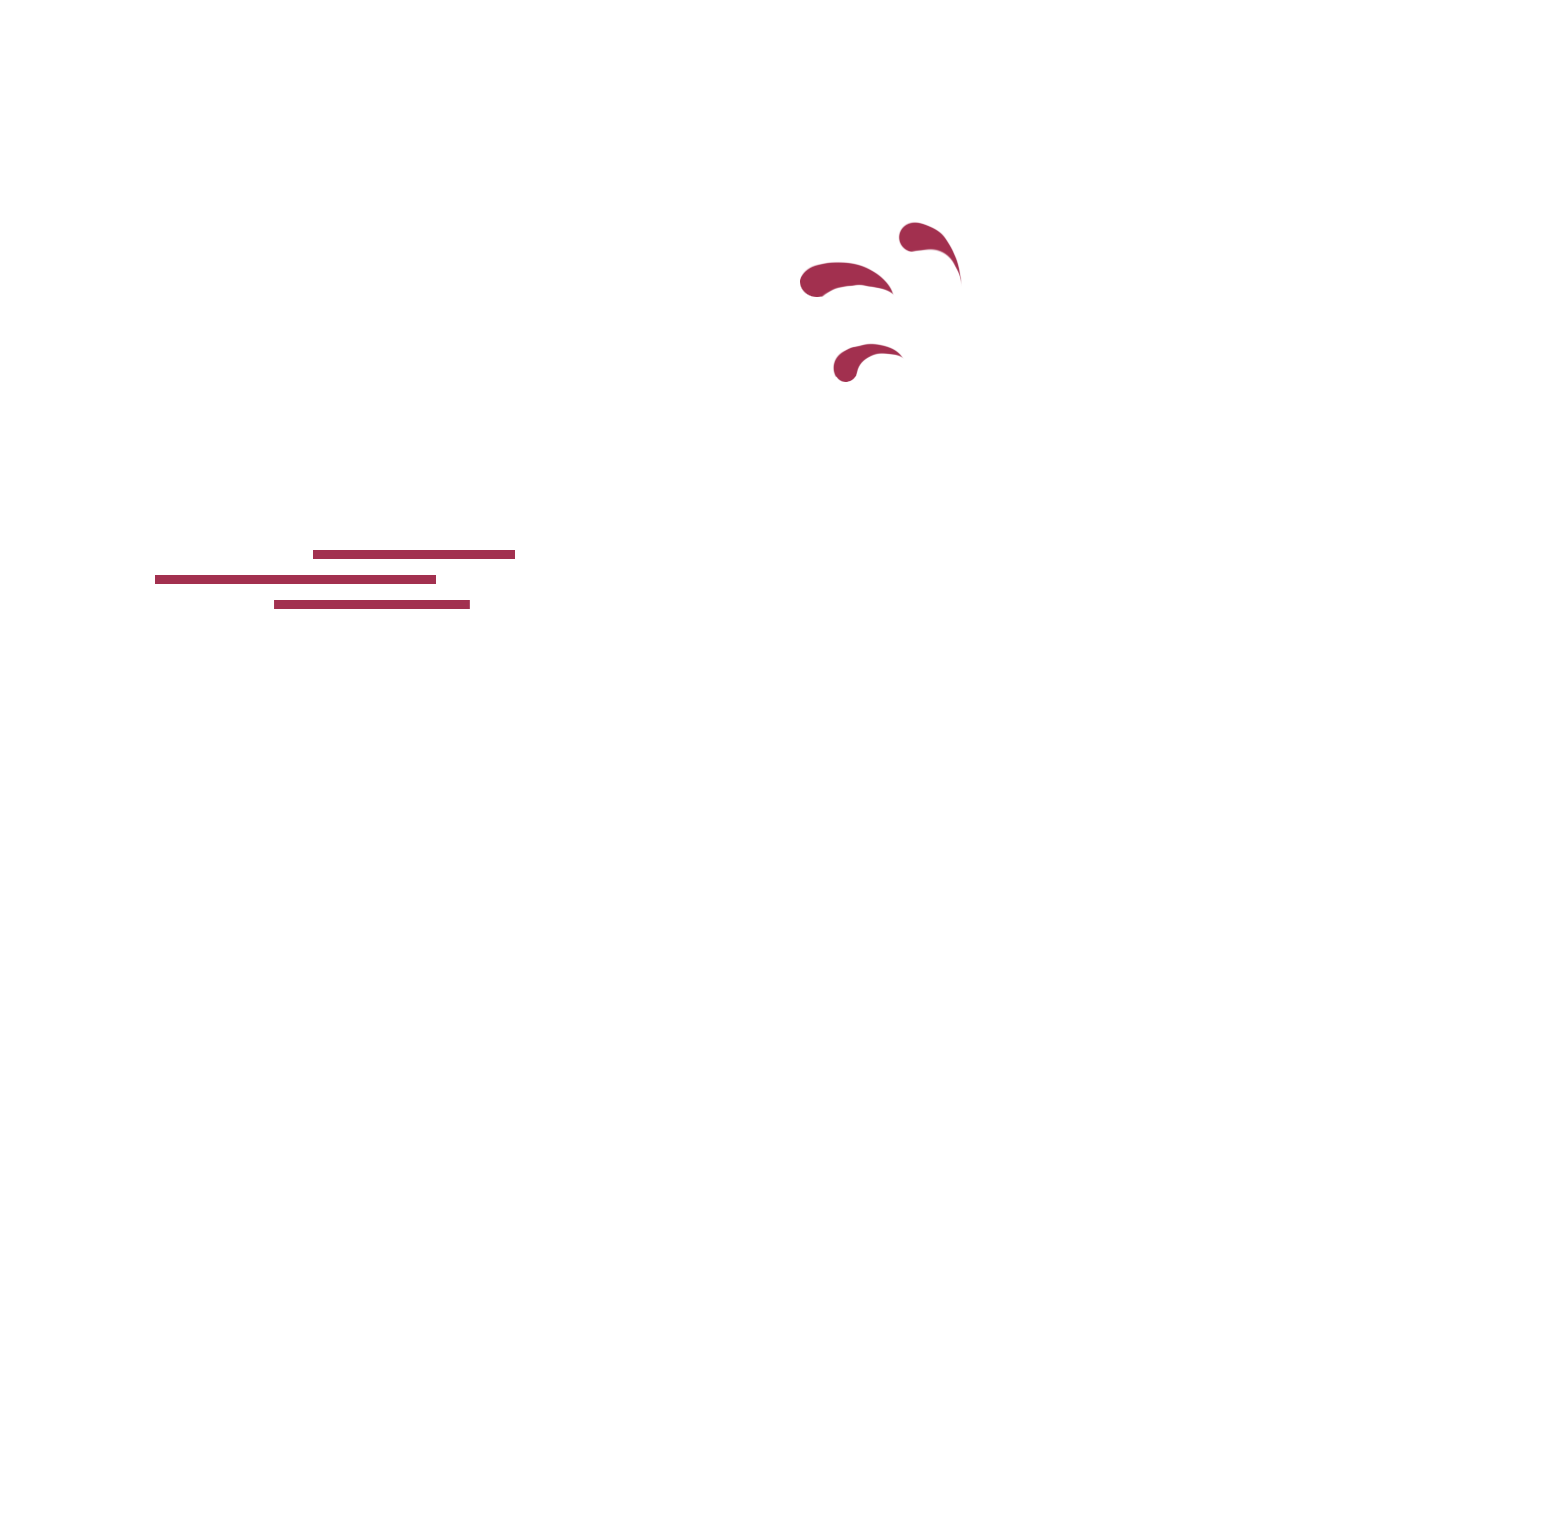
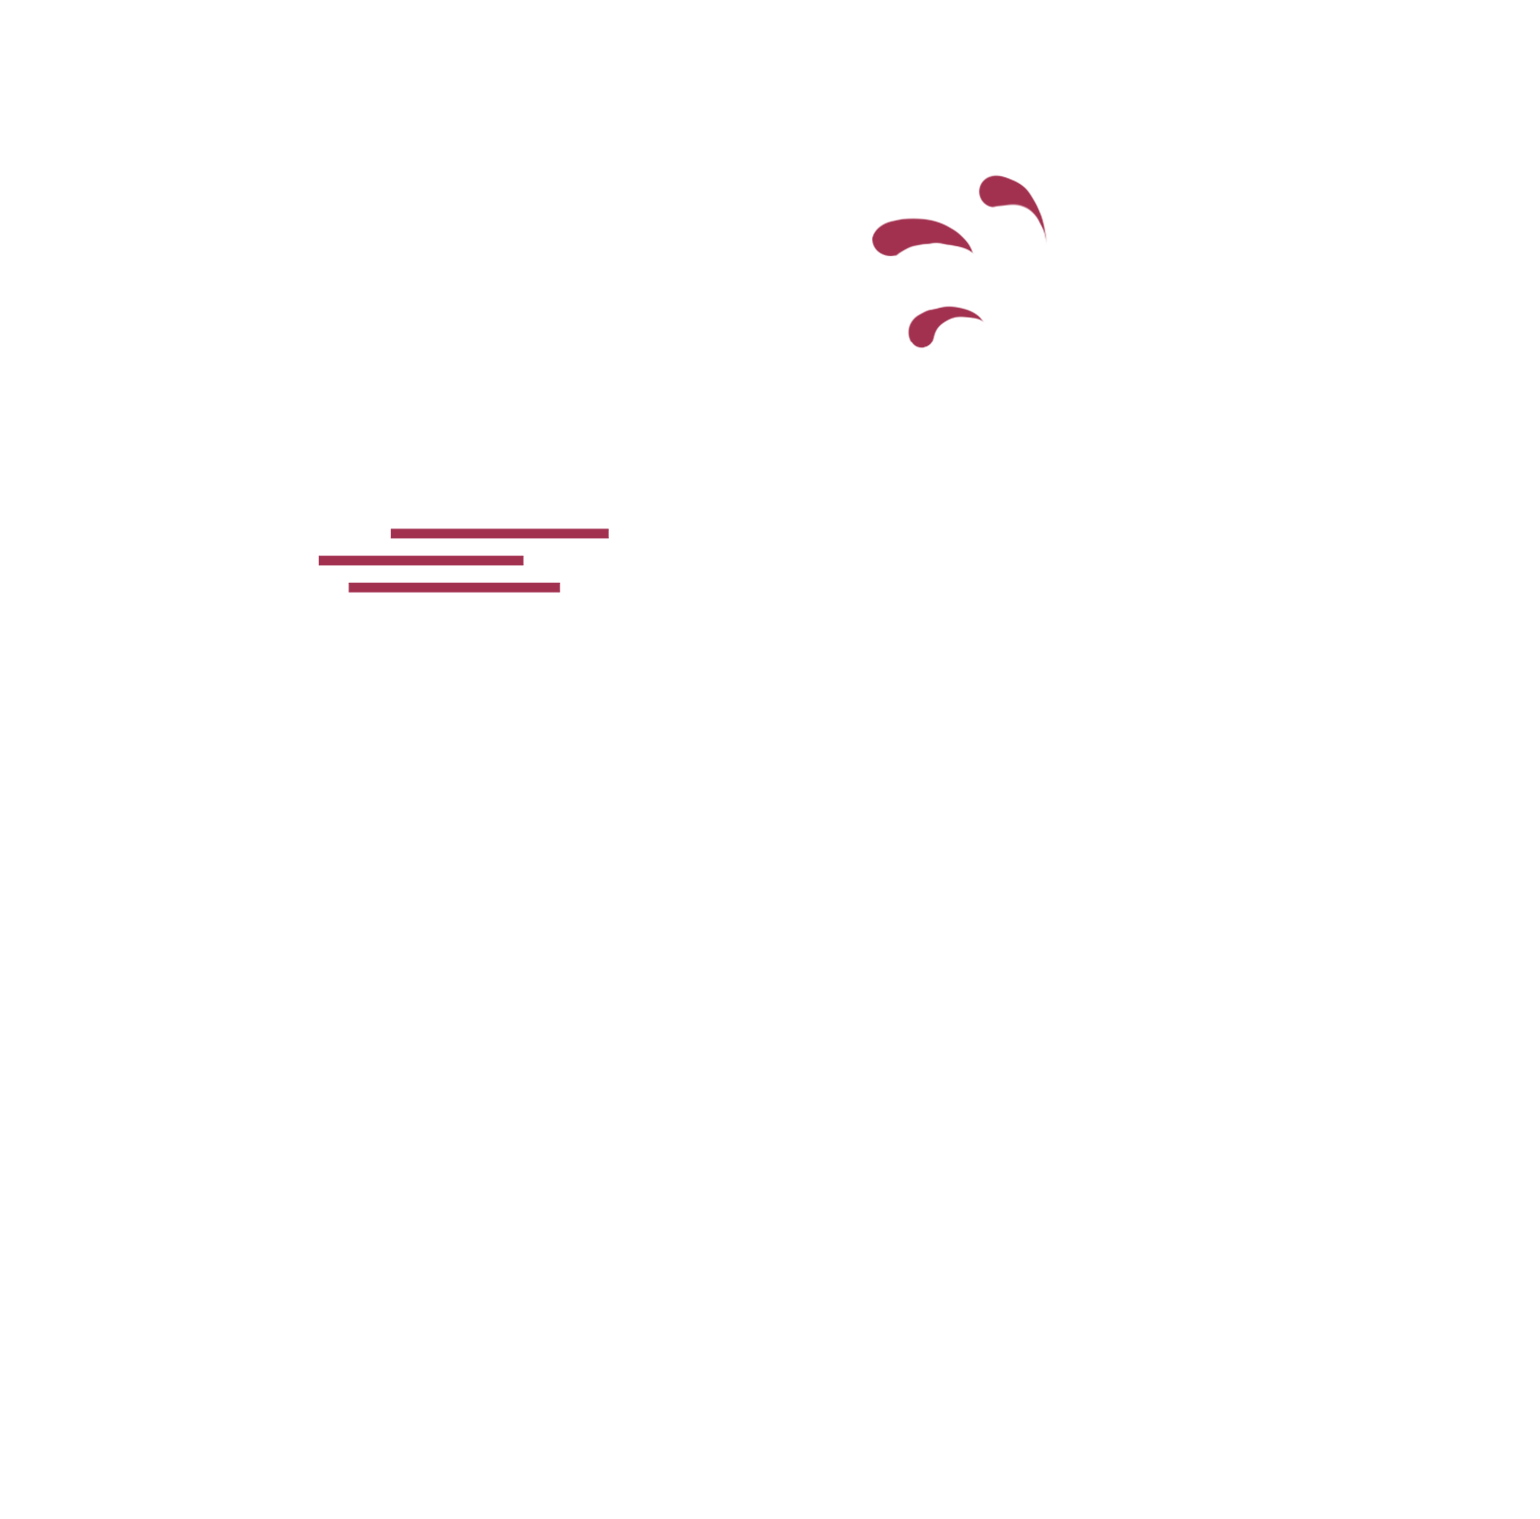
add two section and add zoom effect on it

Changed region(s): [[0.0935, 0.3404, 0.4052, 0.4022], [0.4987, 0.0928, 0.6857, 0.2475]]

diff --git a/index.html b/index.html
@@ -45,9 +45,7 @@
     <div class="collapse navbar-collapse text-uppercase" id="navbarResponsive">
       <ul class="navbar-nav ml-auto">
         <li class="nav-item active">
-          <a class="nav-link" href="#">Acceuil
-            <span class="sr-only">(current)</span>
-          </a>
+          <a class="nav-link" href="#">Acceuil</a>
         </li>
         <li class="nav-item">
           <a class="nav-link" href="#solutions">Nos Solutions</a>
@@ -59,7 +57,7 @@
           <a class="nav-link" href="#">Événements</a>
         </li>
         <li class="nav-item">
-          <a class="nav-link" href="#">Coaching</a>
+          <a class="nav-link" href="#calendly">Coaching</a>
         </li>
         <li class="nav-item">
           <a class="nav-link" href="#">Contact</a>
@@ -82,119 +80,63 @@
   </div>
 </header>
 
-<!-- lorem ispum -->
-<section id="solutions">
-  <div class="text-light">
-    <p>
-      Lorem ipsum dolor sit amet, consectetur adipiscing elit, sed do eiusmod tempor incididunt ut labore et dolore magna
-      aliqua. Ut enim ad minim veniam, quis nostrud exercitation ullamco laboris nisi ut aliquip ex ea commodo consequat.
-      Duis aute irure dolor in reprehenderit in voluptate velit esse cillum dolore eu fugiat nulla pariatur. Excepteur sint
-      occaecat cupidatat non proident, sunt in culpa qui officia deserunt mollit anim id est laborum.
-    </p>
-    <p>
-      Lorem ipsum dolor sit amet, consectetur adipiscing elit, sed do eiusmod tempor incididunt ut labore et dolore magna
-      aliqua. Ut enim ad minim veniam, quis nostrud exercitation ullamco laboris nisi ut aliquip ex ea commodo consequat.
-      Duis aute irure dolor in reprehenderit in voluptate velit esse cillum dolore eu fugiat nulla pariatur. Excepteur sint
-      occaecat cupidatat non proident, sunt in culpa qui officia deserunt mollit anim id est laborum.
-    </p>
-    <p>
-      Lorem ipsum dolor sit amet, consectetur adipiscing elit, sed do eiusmod tempor incididunt ut labore et dolore magna
-      aliqua. Ut enim ad minim veniam, quis nostrud exercitation ullamco laboris nisi ut aliquip ex ea commodo consequat.
-      Duis aute irure dolor in reprehenderit in voluptate velit esse cillum dolore eu fugiat nulla pariatur. Excepteur sint
-      occaecat cupidatat non proident, sunt in culpa qui officia deserunt mollit anim id est laborum.
-    </p>
-    <p>
-      Lorem ipsum dolor sit amet, consectetur adipiscing elit, sed do eiusmod tempor incididunt ut labore et dolore magna
-      aliqua. Ut enim ad minim veniam, quis nostrud exercitation ullamco laboris nisi ut aliquip ex ea commodo consequat.
-      Duis aute irure dolor in reprehenderit in voluptate velit esse cillum dolore eu fugiat nulla pariatur. Excepteur sint
-      occaecat cupidatat non proident, sunt in culpa qui officia deserunt mollit anim id est laborum.
-    </p>
-    <p>
-      Lorem ipsum dolor sit amet, consectetur adipiscing elit, sed do eiusmod tempor incididunt ut labore et dolore magna
-      aliqua. Ut enim ad minim veniam, quis nostrud exercitation ullamco laboris nisi ut aliquip ex ea commodo consequat.
-      Duis aute irure dolor in reprehenderit in voluptate velit esse cillum dolore eu fugiat nulla pariatur. Excepteur sint
-      occaecat cupidatat non proident, sunt in culpa qui officia deserunt mollit anim id est laborum.
-    </p>
-    <p>
-      Lorem ipsum dolor sit amet, consectetur adipiscing elit, sed do eiusmod tempor incididunt ut labore et dolore magna
-      aliqua. Ut enim ad minim veniam, quis nostrud exercitation ullamco laboris nisi ut aliquip ex ea commodo consequat.
-      Duis aute irure dolor in reprehenderit in voluptate velit esse cillum dolore eu fugiat nulla pariatur. Excepteur sint
-      occaecat cupidatat non proident, sunt in culpa qui officia deserunt mollit anim id est laborum.
-    </p>
-    <p>
-      Lorem ipsum dolor sit amet, consectetur adipiscing elit, sed do eiusmod tempor incididunt ut labore et dolore magna
-      aliqua. Ut enim ad minim veniam, quis nostrud exercitation ullamco laboris nisi ut aliquip ex ea commodo consequat.
-      Duis aute irure dolor in reprehenderit in voluptate velit esse cillum dolore eu fugiat nulla pariatur. Excepteur sint
-      occaecat cupidatat non proident, sunt in culpa qui officia deserunt mollit anim id est laborum.
-    </p>
-    <p>
-      Lorem ipsum dolor sit amet, consectetur adipiscing elit, sed do eiusmod tempor incididunt ut labore et dolore magna
-      aliqua. Ut enim ad minim veniam, quis nostrud exercitation ullamco laboris nisi ut aliquip ex ea commodo consequat.
-      Duis aute irure dolor in reprehenderit in voluptate velit esse cillum dolore eu fugiat nulla pariatur. Excepteur sint
-      occaecat cupidatat non proident, sunt in culpa qui officia deserunt mollit anim id est laborum.
-    </p>
-    <p>
-      Lorem ipsum dolor sit amet, consectetur adipiscing elit, sed do eiusmod tempor incididunt ut labore et dolore magna
-      aliqua. Ut enim ad minim veniam, quis nostrud exercitation ullamco laboris nisi ut aliquip ex ea commodo consequat.
-      Duis aute irure dolor in reprehenderit in voluptate velit esse cillum dolore eu fugiat nulla pariatur. Excepteur sint
-      occaecat cupidatat non proident, sunt in culpa qui officia deserunt mollit anim id est laborum.
-    </p>
-    <p>
-      Lorem ipsum dolor sit amet, consectetur adipiscing elit, sed do eiusmod tempor incididunt ut labore et dolore magna
-      aliqua. Ut enim ad minim veniam, quis nostrud exercitation ullamco laboris nisi ut aliquip ex ea commodo consequat.
-      Duis aute irure dolor in reprehenderit in voluptate velit esse cillum dolore eu fugiat nulla pariatur. Excepteur sint
-      occaecat cupidatat non proident, sunt in culpa qui officia deserunt mollit anim id est laborum.
-    </p>
-    <p>
-      Lorem ipsum dolor sit amet, consectetur adipiscing elit, sed do eiusmod tempor incididunt ut labore et dolore magna
-      aliqua. Ut enim ad minim veniam, quis nostrud exercitation ullamco laboris nisi ut aliquip ex ea commodo consequat.
-      Duis aute irure dolor in reprehenderit in voluptate velit esse cillum dolore eu fugiat nulla pariatur. Excepteur sint
-      occaecat cupidatat non proident, sunt in culpa qui officia deserunt mollit anim id est laborum.
-    </p>
-    <p>
-      Lorem ipsum dolor sit amet, consectetur adipiscing elit, sed do eiusmod tempor incididunt ut labore et dolore magna
-      aliqua. Ut enim ad minim veniam, quis nostrud exercitation ullamco laboris nisi ut aliquip ex ea commodo consequat.
-      Duis aute irure dolor in reprehenderit in voluptate velit esse cillum dolore eu fugiat nulla pariatur. Excepteur sint
-      occaecat cupidatat non proident, sunt in culpa qui officia deserunt mollit anim id est laborum.
-    </p>
-    <p>
-      Lorem ipsum dolor sit amet, consectetur adipiscing elit, sed do eiusmod tempor incididunt ut labore et dolore magna
-      aliqua. Ut enim ad minim veniam, quis nostrud exercitation ullamco laboris nisi ut aliquip ex ea commodo consequat.
-      Duis aute irure dolor in reprehenderit in voluptate velit esse cillum dolore eu fugiat nulla pariatur. Excepteur sint
-      occaecat cupidatat non proident, sunt in culpa qui officia deserunt mollit anim id est laborum.
-    </p>
-    <p>
-      Lorem ipsum dolor sit amet, consectetur adipiscing elit, sed do eiusmod tempor incididunt ut labore et dolore magna
-      aliqua. Ut enim ad minim veniam, quis nostrud exercitation ullamco laboris nisi ut aliquip ex ea commodo consequat.
-      Duis aute irure dolor in reprehenderit in voluptate velit esse cillum dolore eu fugiat nulla pariatur. Excepteur sint
-      occaecat cupidatat non proident, sunt in culpa qui officia deserunt mollit anim id est laborum.
-    </p>
-    <p>
-      Lorem ipsum dolor sit amet, consectetur adipiscing elit, sed do eiusmod tempor incididunt ut labore et dolore magna
-      aliqua. Ut enim ad minim veniam, quis nostrud exercitation ullamco laboris nisi ut aliquip ex ea commodo consequat.
-      Duis aute irure dolor in reprehenderit in voluptate velit esse cillum dolore eu fugiat nulla pariatur. Excepteur sint
-      occaecat cupidatat non proident, sunt in culpa qui officia deserunt mollit anim id est laborum.
-    </p>
-    <p>
-      Lorem ipsum dolor sit amet, consectetur adipiscing elit, sed do eiusmod tempor incididunt ut labore et dolore magna
-      aliqua. Ut enim ad minim veniam, quis nostrud exercitation ullamco laboris nisi ut aliquip ex ea commodo consequat.
-      Duis aute irure dolor in reprehenderit in voluptate velit esse cillum dolore eu fugiat nulla pariatur. Excepteur sint
-      occaecat cupidatat non proident, sunt in culpa qui officia deserunt mollit anim id est laborum.
-    </p>
-    <p>
-      Lorem ipsum dolor sit amet, consectetur adipiscing elit, sed do eiusmod tempor incididunt ut labore et dolore magna
-      aliqua. Ut enim ad minim veniam, quis nostrud exercitation ullamco laboris nisi ut aliquip ex ea commodo consequat.
-      Duis aute irure dolor in reprehenderit in voluptate velit esse cillum dolore eu fugiat nulla pariatur. Excepteur sint
-      occaecat cupidatat non proident, sunt in culpa qui officia deserunt mollit anim id est laborum.
-    </p>
-    <p>
-      Lorem ipsum dolor sit amet, consectetur adipiscing elit, sed do eiusmod tempor incididunt ut labore et dolore magna
-      aliqua. Ut enim ad minim veniam, quis nostrud exercitation ullamco laboris nisi ut aliquip ex ea commodo consequat.
-      Duis aute irure dolor in reprehenderit in voluptate velit esse cillum dolore eu fugiat nulla pariatur. Excepteur sint
-      occaecat cupidatat non proident, sunt in culpa qui officia deserunt mollit anim id est laborum.
-    </p>
+<div class="container container-problematic text-white">
+  <div class="row mb-5">
+    <div class="col-sm">
+      <p class="text-center display-1 zoom">1<span class="important-statistic">/</span>2</p>
+      <h5 class="text-grey text-center font-weight-bold">
+        Estime ne pas avoir une bonne estime de soi
+      </h5>
+    </div>
+    <div class="col-sm">
+      <p class="text-center display-1 zoom">22<span class="important-statistic">%</span></p>
+      <h5 class="text-grey text-center font-weight-bold">
+        Des français affirment avoir une vie choisie dans laquelle ils sont pleinement épanouis
+      </h5>
+    </div>
+    <div class="col-sm">
+      <p class="text-center display-1 zoom">1<span class="important-statistic">/</span>2</p>
+      <h5 class="text-grey text-center font-weight-bold">
+        Estime ne pas avoir une bonne estime de soi
+      </h5>
+    </div>
   </div>
-</section>
+</div>
+
+<div class="container container-solutions text-white">
+  <div class="row">
+    <div class="col-sm">
+      <img class="img-fluid zoom" src="img/pictogrammes/LearningPicto.png" />
+      <h3 class="text-center text-uppercase mb-4">Connaissance de soi</h3>
+      <ul class="text-grey font-weight-bold">
+        <li>Lorem Ipsum Lorem Ipsum Lorem</li>
+        <li>Lorem Ipsum Lorem Ipsum Lorem</li>
+        <li>Lorem Ipsum Lorem Ipsum Lorem</li>
+        <li>Lorem Ipsum Lorem Ipsum Lorem</li>
+      </ul>
+    </div>
+    <div class="col-sm">
+      <img class="img-fluid zoom" src="img/pictogrammes/PerformancePicto.png" />
+      <h3 class="text-center text-uppercase mb-4">Performance</h3>
+      <ul class="text-grey font-weight-bold">
+        <li>Lorem Ipsum Lorem Ipsum Lorem</li>
+        <li>Lorem Ipsum Lorem Ipsum Lorem</li>
+        <li>Lorem Ipsum Lorem Ipsum Lorem</li>
+        <li>Lorem Ipsum Lorem Ipsum Lorem</li>
+      </ul>
+    </div>
+    <div class="col-sm">
+      <img class="img-fluid zoom" src="img/pictogrammes/SuiviPicto.png" />
+      <h3 class="text-center text-uppercase mb-4">Évolution</h3>
+      <ul class="text-grey font-weight-bold">
+        <li>Lorem Ipsum Lorem Ipsum Lorem</li>
+        <li>Lorem Ipsum Lorem Ipsum Lorem</li>
+        <li>Lorem Ipsum Lorem Ipsum Lorem</li>
+        <li>Lorem Ipsum Lorem Ipsum Lorem</li>
+      </ul>
+    </div>
+  </div>
+</div>
 
 <!-- Début de widget en ligne Calendly -->
 <section id="calendly" class="section">
@@ -220,7 +162,7 @@
 
         <!-- Content -->
         <h5 class="text-uppercase">Information</h5>
-        <p class="text-footer-grey">Lorem ipsum dolor sit amet, consectetur adipiscing elit, sed do eiusmod tempor incididunt ut labore et
+        <p class="text-grey">Lorem ipsum dolor sit amet, consectetur adipiscing elit, sed do eiusmod tempor incididunt ut labore et
           dolore magna aliqua. Ut enim ad minim veniam, quis nostrud exercitation ullamco laboris nisi ut aliquip
           ex ea commodo consequat.</p>
 
@@ -237,10 +179,10 @@
 
         <ul class="list-unstyled">
           <li>
-            <a class="text-footer-grey" href="#!">Contactez-nous</a>
+            <a class="text-grey" href="#!">Contactez-nous</a>
           </li>
           <li>
-            <a class="text-footer-grey" href="#!">Aide</a>
+            <a class="text-grey" href="#!">Aide</a>
           </li>
         </ul>
 
@@ -255,13 +197,13 @@
 
         <ul class="list-unstyled">
           <li>
-            <a class="text-footer-grey" href="#!">Politique de protection des donnés personelles</a>
+            <a class="text-grey" href="#!">Politique de protection des donnés personelles</a>
           </li>
           <li>
-            <a class="text-footer-grey" href="#!">Condition générales d'utilisation</a>
+            <a class="text-grey" href="#!">Condition générales d'utilisation</a>
           </li>
           <li>
-            <a class="text-footer-grey" href="#!">Plan du site</a>
+            <a class="text-grey" href="#!">Plan du site</a>
           </li>
         </ul>
 

diff --git a/css/styles.css b/css/styles.css
@@ -2,6 +2,21 @@ h5 {
   color: #a2304f !important;
 }
 
-.text-footer-grey {
+.text-grey {
   color: #797979 !important;
+}
+
+.important-statistic {
+  color: #a2304f !important;
+}
+
+/* zoom image */
+
+.zoom {
+  padding: 20px;
+  transition: transform .2s; /* Animation */
+}
+
+.zoom:hover {
+  transform: scale(1.2); /* (150% zoom - Note: if the zoom is too large, it will go outside of the viewport) */
 }

diff --git a/css/home-page.css b/css/home-page.css
@@ -25,3 +25,7 @@
 .text-responsive {
   font-size: calc(100% + 1vw + 1vh) !important;
 }
+
+.container-problematic, .container-solutions {
+  margin-bottom: 300px;
+}
